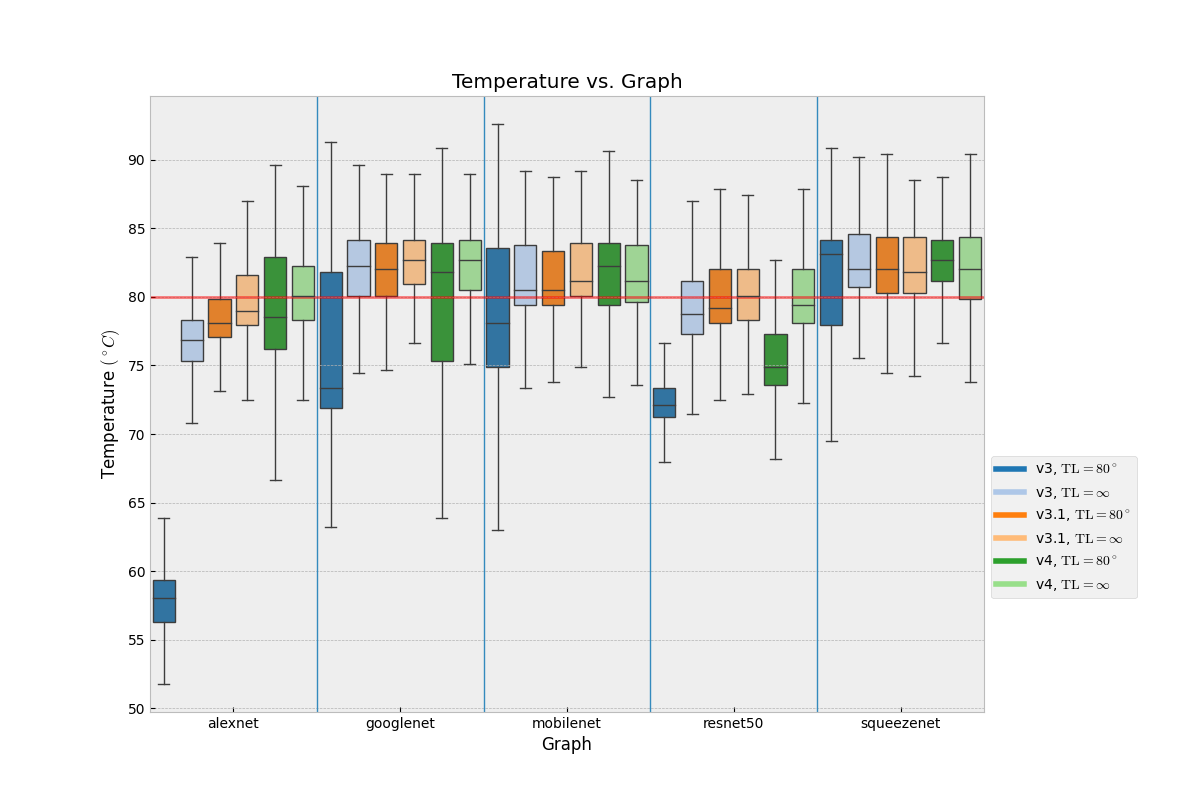
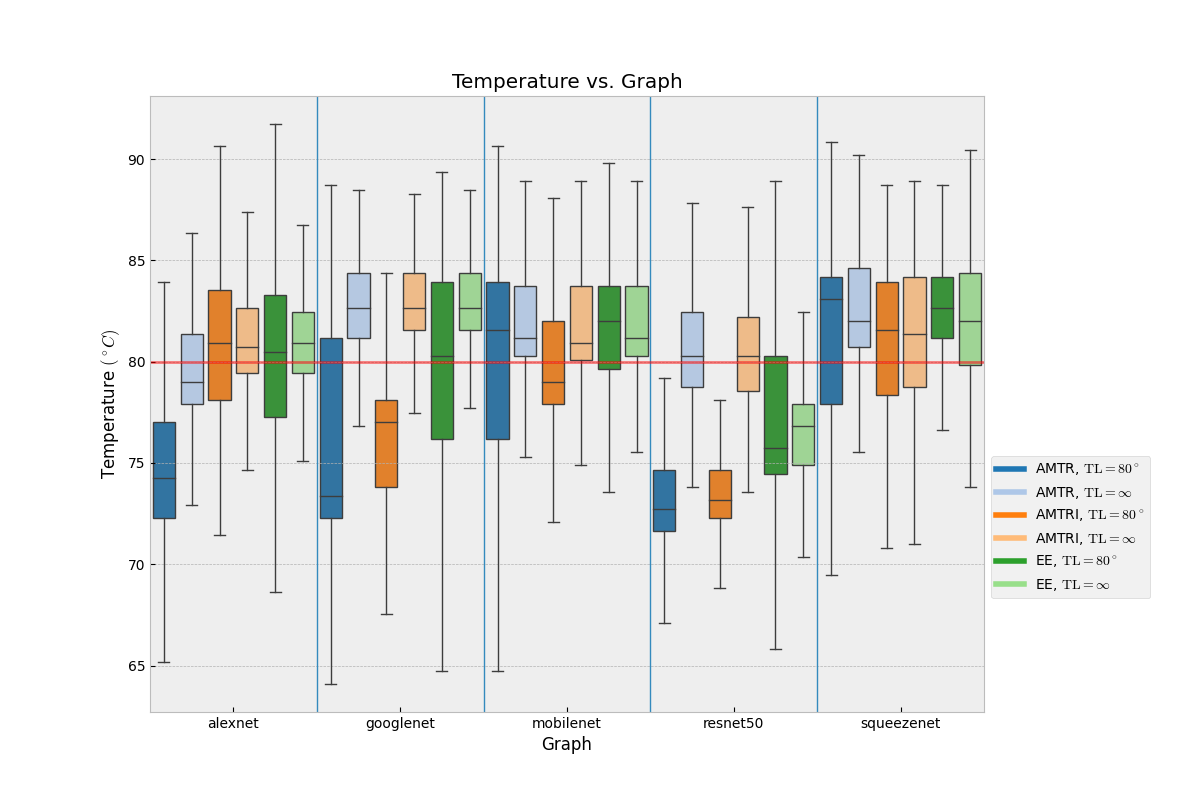
Add plots

diff --git a/stats.py b/stats.py
@@ -15,7 +15,7 @@ tab20 = matplotlib.cm.get_cmap("tab20")
 poss = np.linspace(0, 1, 20)[:6]
 colors = [tab20(x) for x in poss]
 
-temp_csvs = glob.glob("temp_schedulerv*/*_TL*_dt1000*.csv")
+temp_csvs = glob.glob("temp_schedulerv*/*_TL*_dt1000.csv")
 time_logs = glob.glob("temp_scheduler_all/*_TL*_dt1000_run_sched*.log")
 
 graphs = ("alexnet", "googlenet", "mobilenet", "resnet50", "squeezenet")
@@ -39,6 +39,8 @@ stats = defaultdict(dd)
 temp_df = pd.DataFrame()
 
 for temp_csv in temp_csvs:
+    if "motivation" in temp_csv:
+        continue
     version, graph, TL = re.findall(
         r"temp_schedulerv([\d_]+)/(\w+)_TL(\d+)_dt1000.csv", temp_csv
     )[0]
@@ -55,6 +57,8 @@ for temp_csv in temp_csvs:
 
 for time_log in time_logs:
     file_name = time_log.split("/")[1]
+    if "motivation" in time_log:
+        continue
     graph, TL, version = re.findall(
         r"(\w+)_TL(\d+)_dt\d+_run_sched([\d\.]+).log", file_name
     )[0]
@@ -104,7 +108,11 @@ for x in np.linspace(m, M, len(graphs) + 1)[1:-1]:
 ax.axhline(y=80, color="r", alpha=0.5)
 ax.legend(
     [Line2D([0], [0], color=col, lw=4) for x, col in zip(poss, colors)],
-    [f"v{version}, ${{\\rm TL}}={map_tl(TL)}$" for version in versions for TL in TLs],
+    [
+        f"{version_names[version]}, ${{\\rm TL}}={map_tl(TL)}$"
+        for version in versions
+        for TL in TLs
+    ],
     loc="center left",
     bbox_to_anchor=(1, 0.3),
 )
@@ -149,7 +157,9 @@ for column in df.columns:
     )
     m, M = ax.get_xlim()
     xtick_lables = np.linspace(m, M, len(graphs) + 1)
-    ax.set_xticks([(x + x1) / 2 for x, x1 in zip(xtick_lables, xtick_lables[1:])])
+    ax.set_xticks(
+        [(x + x1) / 2 for x, x1 in zip(xtick_lables, xtick_lables[1:])]
+    )
     ax.set_xticklabels(graphs, rotation=0)
     for x in np.linspace(m, M, len(graphs) + 1)[1:-1]:
         ax.axvline(x=x)
